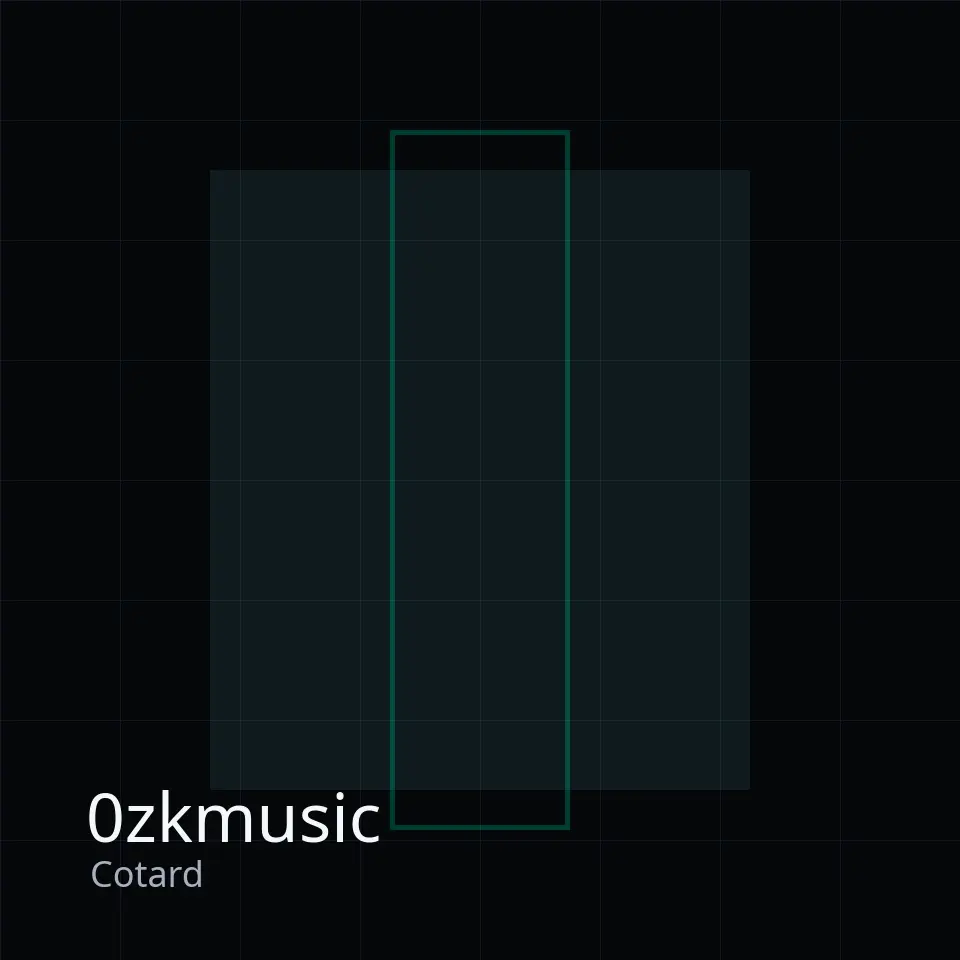
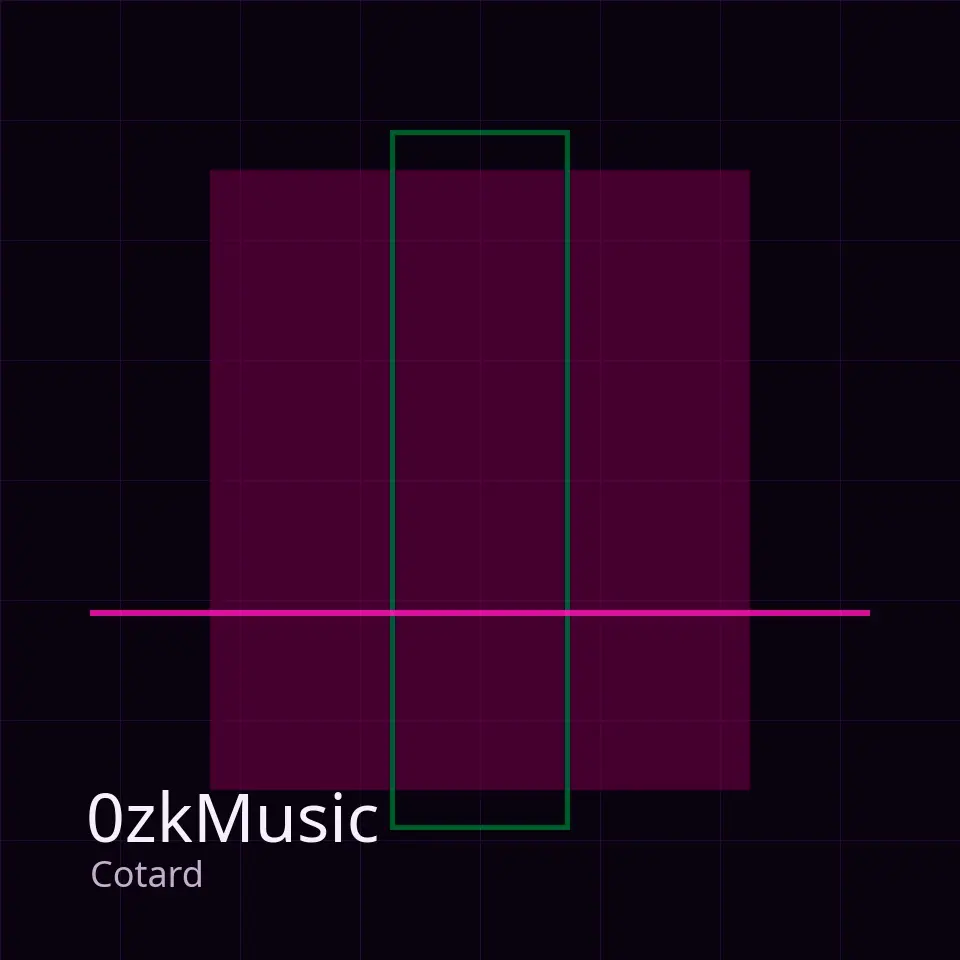
Ui fixes

diff --git a/assets/css/custom.css b/assets/css/custom.css
@@ -1,21 +1,24 @@
 :root {
-  --ozk-bg: #08090b;
-  --ozk-panel: #101319;
-  --ozk-panel-strong: #151922;
-  --ozk-line: #252b35;
-  --ozk-text: #eef2f7;
-  --ozk-muted: #a6b0bf;
-  --ozk-dim: #738092;
-  --ozk-accent: #6ee7d8;
-  --ozk-accent-strong: #8af3e8;
-  --ozk-warn: #d1a85a;
+  --ozk-bg: #0b0413;
+  --ozk-panel: #13081d;
+  --ozk-panel-strong: #1d0d2b;
+  --ozk-line: #382147;
+  --ozk-text: #f7f0fb;
+  --ozk-muted: #c3aecf;
+  --ozk-dim: #8e78a0;
+  --ozk-accent: #ff2bbf;
+  --ozk-accent-strong: #ff66d2;
+  --ozk-signal: #44f5b0;
+  --ozk-signal-strong: #77ffd0;
+  --ozk-warn: #ffd36e;
 }
 
 html.dark body,
 body {
   background:
-    radial-gradient(circle at 12% 0%, rgba(110, 231, 216, 0.08), transparent 32rem),
-    linear-gradient(180deg, #08090b 0%, #0b0d12 42%, #08090b 100%);
+    radial-gradient(circle at 9% 0%, rgba(255, 43, 191, 0.15), transparent 30rem),
+    radial-gradient(circle at 85% 12%, rgba(68, 245, 176, 0.08), transparent 28rem),
+    linear-gradient(180deg, #0b0413 0%, #0a0610 46%, #07040b 100%);
   color: var(--ozk-text);
 }
 
@@ -30,8 +33,13 @@ a {
 
 a:focus-visible,
 button:focus-visible {
-  outline: 2px solid var(--ozk-accent);
+  outline: 2px solid var(--ozk-signal);
   outline-offset: 3px;
+}
+
+header img,
+#site-header img {
+  border-radius: 999px;
 }
 
 .home-hero,
@@ -49,6 +57,8 @@ button:focus-visible {
   margin: 1.5rem 0 4rem;
   border-bottom: 1px solid var(--ozk-line);
   position: relative;
+  isolation: isolate;
+  overflow: hidden;
 }
 
 .home-hero::before {
@@ -56,9 +66,26 @@ button:focus-visible {
   position: absolute;
   inset: 0;
   background:
-    linear-gradient(120deg, rgba(110, 231, 216, 0.08), transparent 40%),
-    repeating-linear-gradient(90deg, rgba(255,255,255,0.035) 0, rgba(255,255,255,0.035) 1px, transparent 1px, transparent 72px);
-  mask-image: linear-gradient(to bottom, black, transparent 92%);
+    linear-gradient(90deg, rgba(11, 4, 19, 0.89) 0%, rgba(11, 4, 19, 0.71) 44%, rgba(11, 4, 19, 0.27) 100%),
+    linear-gradient(180deg, rgba(11, 4, 19, 0.29), rgba(11, 4, 19, 0.85)),
+    url("/img/0zkmusic-banner.jpeg");
+  background-position: center;
+  background-size: cover;
+  opacity: 0.95;
+  z-index: -2;
+  pointer-events: none;
+}
+
+.home-hero::after {
+  content: "";
+  position: absolute;
+  inset: 0;
+  background:
+    repeating-linear-gradient(90deg, rgba(255,255,255,0.035) 0, rgba(255,255,255,0.035) 1px, transparent 1px, transparent 72px),
+    radial-gradient(circle at 18% 38%, rgba(255, 43, 191, 0.18), transparent 18rem),
+    radial-gradient(circle at 86% 18%, rgba(68, 245, 176, 0.12), transparent 18rem);
+  mask-image: linear-gradient(to bottom, black, transparent 96%);
+  z-index: -1;
   pointer-events: none;
 }
 
@@ -68,8 +95,20 @@ button:focus-visible {
   padding: 4rem 0;
 }
 
+.hero-brand-mark {
+  aspect-ratio: 1 / 1;
+  border: 1px solid rgba(255, 43, 191, 0.52);
+  border-radius: 999px;
+  box-shadow: 0 0 0 4px rgba(255, 43, 191, 0.08), 0 0 36px rgba(255, 43, 191, 0.24);
+  display: block;
+  height: 5.25rem;
+  margin-bottom: 1.1rem;
+  object-fit: cover;
+  width: 5.25rem;
+}
+
 .eyebrow {
-  color: var(--ozk-accent);
+  color: var(--ozk-signal);
   font-size: 0.78rem;
   font-weight: 700;
   letter-spacing: 0.12em;
@@ -79,6 +118,7 @@ button:focus-visible {
 
 .home-hero h1 {
   color: var(--ozk-text);
+  text-shadow: 0 0 34px rgba(255, 43, 191, 0.16);
   font-size: clamp(3rem, 12vw, 6.7rem);
   line-height: 0.92;
   margin: 0;
@@ -127,12 +167,12 @@ button:focus-visible {
 .ozk-button-primary {
   background: var(--ozk-accent);
   border-color: var(--ozk-accent);
-  color: #04100f;
+  color: #150014;
 }
 
 .ozk-button-primary:hover {
   background: var(--ozk-accent-strong);
-  color: #04100f;
+  color: #150014;
 }
 
 .ozk-button-secondary {
@@ -141,8 +181,8 @@ button:focus-visible {
 }
 
 .ozk-button-secondary:hover {
-  border-color: var(--ozk-accent);
-  color: var(--ozk-accent-strong);
+  border-color: var(--ozk-signal);
+  color: var(--ozk-signal-strong);
 }
 
 .home-section {
@@ -171,7 +211,7 @@ button:focus-visible {
 }
 
 .text-link {
-  color: var(--ozk-accent);
+  color: var(--ozk-signal);
   font-weight: 700;
 }
 
@@ -180,7 +220,9 @@ button:focus-visible {
   grid-template-columns: minmax(240px, 0.9fr) minmax(0, 1.1fr);
   gap: clamp(1.2rem, 4vw, 3rem);
   align-items: center;
-  background: rgba(16, 19, 25, 0.64);
+  background:
+    linear-gradient(135deg, rgba(255, 43, 191, 0.08), rgba(68, 245, 176, 0.035)),
+    rgba(19, 8, 29, 0.74);
   border: 1px solid var(--ozk-line);
   border-radius: 0.5rem;
   padding: clamp(1rem, 3vw, 2rem);
@@ -227,7 +269,7 @@ button:focus-visible {
 }
 
 .track-card-link {
-  background: rgba(16, 19, 25, 0.75);
+  background: rgba(19, 8, 29, 0.76);
   border: 1px solid var(--ozk-line);
   border-radius: 0.45rem;
   color: inherit;
@@ -240,8 +282,8 @@ button:focus-visible {
 }
 
 .track-card-link:hover {
-  background: rgba(21, 25, 34, 0.9);
-  border-color: rgba(110, 231, 216, 0.45);
+  background: rgba(29, 13, 43, 0.92);
+  border-color: rgba(255, 43, 191, 0.5);
   transform: translateY(-2px);
 }
 
@@ -305,8 +347,8 @@ button:focus-visible {
 
 .term-cloud a:hover,
 .track-pill:hover {
-  border-color: var(--ozk-accent);
-  color: var(--ozk-accent-strong);
+  border-color: var(--ozk-signal);
+  color: var(--ozk-signal-strong);
 }
 
 .term-cloud span {
@@ -550,4 +592,3 @@ button:focus-visible {
     transition-duration: 0.01ms !important;
   }
 }
-

diff --git a/layouts/index.html b/layouts/index.html
@@ -7,8 +7,9 @@
 
   <section class="home-hero">
     <div class="home-hero-inner">
+      <img class="hero-brand-mark" src="{{ "img/0zkmusic-profile.jpg" | relURL }}" width="120" height="120" alt="0zkMusic channel logo">
       <p class="eyebrow">Independent electronic music</p>
-      <h1>0zkmusic</h1>
+      <h1>0zkMusic</h1>
       <p class="hero-tagline">Trance for the post-human heart.</p>
       <p class="hero-copy">Original electronic music, lyrics, visual concepts, and signals from the age after man.</p>
       <div class="hero-actions">
@@ -94,8 +95,7 @@
   <section class="youtube-cta">
     <p class="eyebrow">YouTube</p>
     <h2>Full videos and Shorts live on the channel.</h2>
-    <a class="ozk-button ozk-button-secondary" href="{{ site.Params.youtubeChannelURL }}" target="_blank" rel="noopener noreferrer">Visit 0zkmusic on YouTube</a>
+    <a class="ozk-button ozk-button-secondary" href="{{ site.Params.youtubeChannelURL }}" target="_blank" rel="noopener noreferrer">Visit 0zkMusic on YouTube</a>
     <p class="privacy-note">YouTube embeds on track pages use the privacy-enhanced domain, but YouTube may still receive data when a video loads.</p>
   </section>
 {{ end }}
-

diff --git a/layouts/tracks/single.html b/layouts/tracks/single.html
@@ -17,7 +17,7 @@
     {{ with .Params.youtube_id }}
       <section class="track-section">
         <h2>Listen</h2>
-        {{ partial "youtube-privacy.html" (dict "id" . "title" (printf "%s by 0zkmusic" $.Title)) }}
+        {{ partial "youtube-privacy.html" (dict "id" . "title" (printf "%s by 0zkMusic" $.Title)) }}
       </section>
     {{ end }}
 
@@ -35,7 +35,7 @@
     {{ with .Params.youtube_short_id }}
       <section class="track-section">
         <h2>Short</h2>
-        {{ partial "youtube-short.html" (dict "id" . "title" (printf "%s Short by 0zkmusic" $.Title)) }}
+        {{ partial "youtube-short.html" (dict "id" . "title" (printf "%s Short by 0zkMusic" $.Title)) }}
       </section>
     {{ end }}
 
@@ -66,4 +66,3 @@
     {{ end }}
   </article>
 {{ end }}
-

diff --git a/README.md b/README.md
@@ -1,6 +1,6 @@
-# 0zkmusic
+# 0zkMusic
 
-Dark Hugo website for the 0zkmusic YouTube music channel, built with the Blowfish theme as a Hugo Module.
+Dark Hugo website for the 0zkMusic YouTube music channel, built with the Blowfish theme as a Hugo Module.
 
 ## Requirements
 
@@ -43,8 +43,10 @@ Change this before deploying.
 - `content/articles/`: conventional article/blog content.
 - `layouts/tracks/`: custom track list and single release layouts.
 - `layouts/partials/`: reusable track cards, metadata, embeds, downloads, related tracks, and JSON-LD.
-- `assets/css/custom.css`: dark 0zkmusic visual overrides loaded by Blowfish.
+- `assets/css/custom.css`: dark 0zkMusic visual overrides loaded by Blowfish.
 - `static/img/`: fallback and social preview images.
+- `static/img/0zkmusic-profile.jpg`: YouTube channel profile image used as the site logo and homepage brand mark.
+- `static/img/0zkmusic-banner.jpeg`: Twitter/X banner image used as the homepage hero background and default social image.
 
 Generated output lives in `public/` and is ignored by Git.
 
@@ -115,7 +117,7 @@ tags:
   - "electronic music"
 
 keywords:
-  - "0zkmusic"
+  - "0zkMusic"
   - "psytrance"
   - "fast trance"
 ---
@@ -182,13 +184,12 @@ Articles use Blowfish's standard article presentation with the site's dark styli
 
 ## Site Links And Placeholders
 
-Change these placeholders before deployment:
+The YouTube channel URL is configured as `https://www.youtube.com/channel/UC1-tLYf1HiKL5v0kHY90IvQ`.
+
+Change these remaining placeholders before deployment:
 
 - `baseURL` in `config/_default/hugo.toml`
-- `youtubeChannelURL` in `config/_default/params.toml`
 - `contactEmail` in `config/_default/params.toml`
-- Menu YouTube URLs in `config/_default/menus.en.toml`
-- Author links in `config/_default/languages.en.toml`
 - Placeholder YouTube IDs in sample track front matter
 - Sample cover art and sample MP3
 
@@ -196,7 +197,7 @@ Optional Bandcamp and SoundCloud URLs are also in `config/_default/params.toml`.
 
 ## Styling
 
-Custom colors and layout rules live in `assets/css/custom.css`. The site uses a dark neutral base, restrained cyan accent, consistent square artwork, responsive grids, visible focus states, and reduced-motion handling.
+Custom colors and layout rules live in `assets/css/custom.css`. The site uses the existing 0zkMusic image palette: violet-black base, magenta primary accent, and cyan-green signal highlights. It keeps consistent square artwork, responsive grids, visible focus states, and reduced-motion handling.
 
 Blowfish files and the Hugo module cache are not edited. Override templates live in `layouts/`.
 

diff --git a/content/contact/index.md b/content/contact/index.md
@@ -1,6 +1,6 @@
 ---
 title: "Contact"
-description: "Contact 0zkmusic."
+description: "Contact 0zkMusic."
 date: 2026-07-10
 draft: false
 ---
@@ -8,7 +8,6 @@ draft: false
 For now, use the placeholder email address below until the real contact address is configured.
 
 - Email: [REPLACE_WITH_EMAIL@example.com](mailto:REPLACE_WITH_EMAIL@example.com)
-- YouTube: [0zkmusic channel](https://www.youtube.com/@REPLACE_WITH_CHANNEL_HANDLE)
+- YouTube: [0zkMusic channel](https://www.youtube.com/channel/UC1-tLYf1HiKL5v0kHY90IvQ)
 
 Optional Bandcamp and SoundCloud links are driven from `config/_default/params.toml`.
-

diff --git a/content/about/index.md b/content/about/index.md
@@ -1,11 +1,10 @@
 ---
 title: "About"
-description: "About 0zkmusic."
+description: "About 0zkMusic."
 date: 2026-07-10
 draft: false
 ---
 
-0zkmusic is an independent electronic music project exploring trance, psytrance, melodic techno, dark electronic music, artificial intelligence, identity, and the boundary between the human and the post-human.
+0zkMusic is an independent electronic music project exploring trance, psytrance, melodic techno, dark electronic music, artificial intelligence, identity, and the boundary between the human and the post-human.
 
 We do not fight the future. We become it.
-

diff --git a/content/tracks/_index.md b/content/tracks/_index.md
@@ -1,8 +1,7 @@
 ---
 title: "Music"
-description: "Original electronic releases from 0zkmusic."
+description: "Original electronic releases from 0zkMusic."
 showBreadcrumbs: false
 ---
 
 Original trance, psytrance, techno, lyrics, visual ideas, and production notes.
-

diff --git a/content/articles/_index.md b/content/articles/_index.md
@@ -3,5 +3,4 @@ title: "Articles"
 description: "Longer ideas around music, AI, technology, art, and the future."
 ---
 
-Short essays and notes connected to the sound world of 0zkmusic.
-
+Short essays and notes connected to the sound world of 0zkMusic.

diff --git a/content/genres/_index.md b/content/genres/_index.md
@@ -1,7 +1,6 @@
 ---
 title: "Genres"
-description: "Browse 0zkmusic releases by genre."
+description: "Browse 0zkMusic releases by genre."
 ---
 
 Browse releases by their primary sound and scene.
-

diff --git a/content/moods/_index.md b/content/moods/_index.md
@@ -1,7 +1,6 @@
 ---
 title: "Moods"
-description: "Browse 0zkmusic releases by mood."
+description: "Browse 0zkMusic releases by mood."
 ---
 
 Browse releases by emotional signal.
-

diff --git a/content/tracks/fly-this-night/index.md b/content/tracks/fly-this-night/index.md
@@ -45,7 +45,7 @@ tags:
   - "night drive"
 
 keywords:
-  - "0zkmusic"
+  - "0zkMusic"
   - "melodic trance"
   - "progressive trance"
 ---

diff --git a/content/tracks/pulse-in-my-veins/index.md b/content/tracks/pulse-in-my-veins/index.md
@@ -45,7 +45,7 @@ tags:
   - "electronic music"
 
 keywords:
-  - "0zkmusic"
+  - "0zkMusic"
   - "psytrance"
   - "fast trance"
 ---
